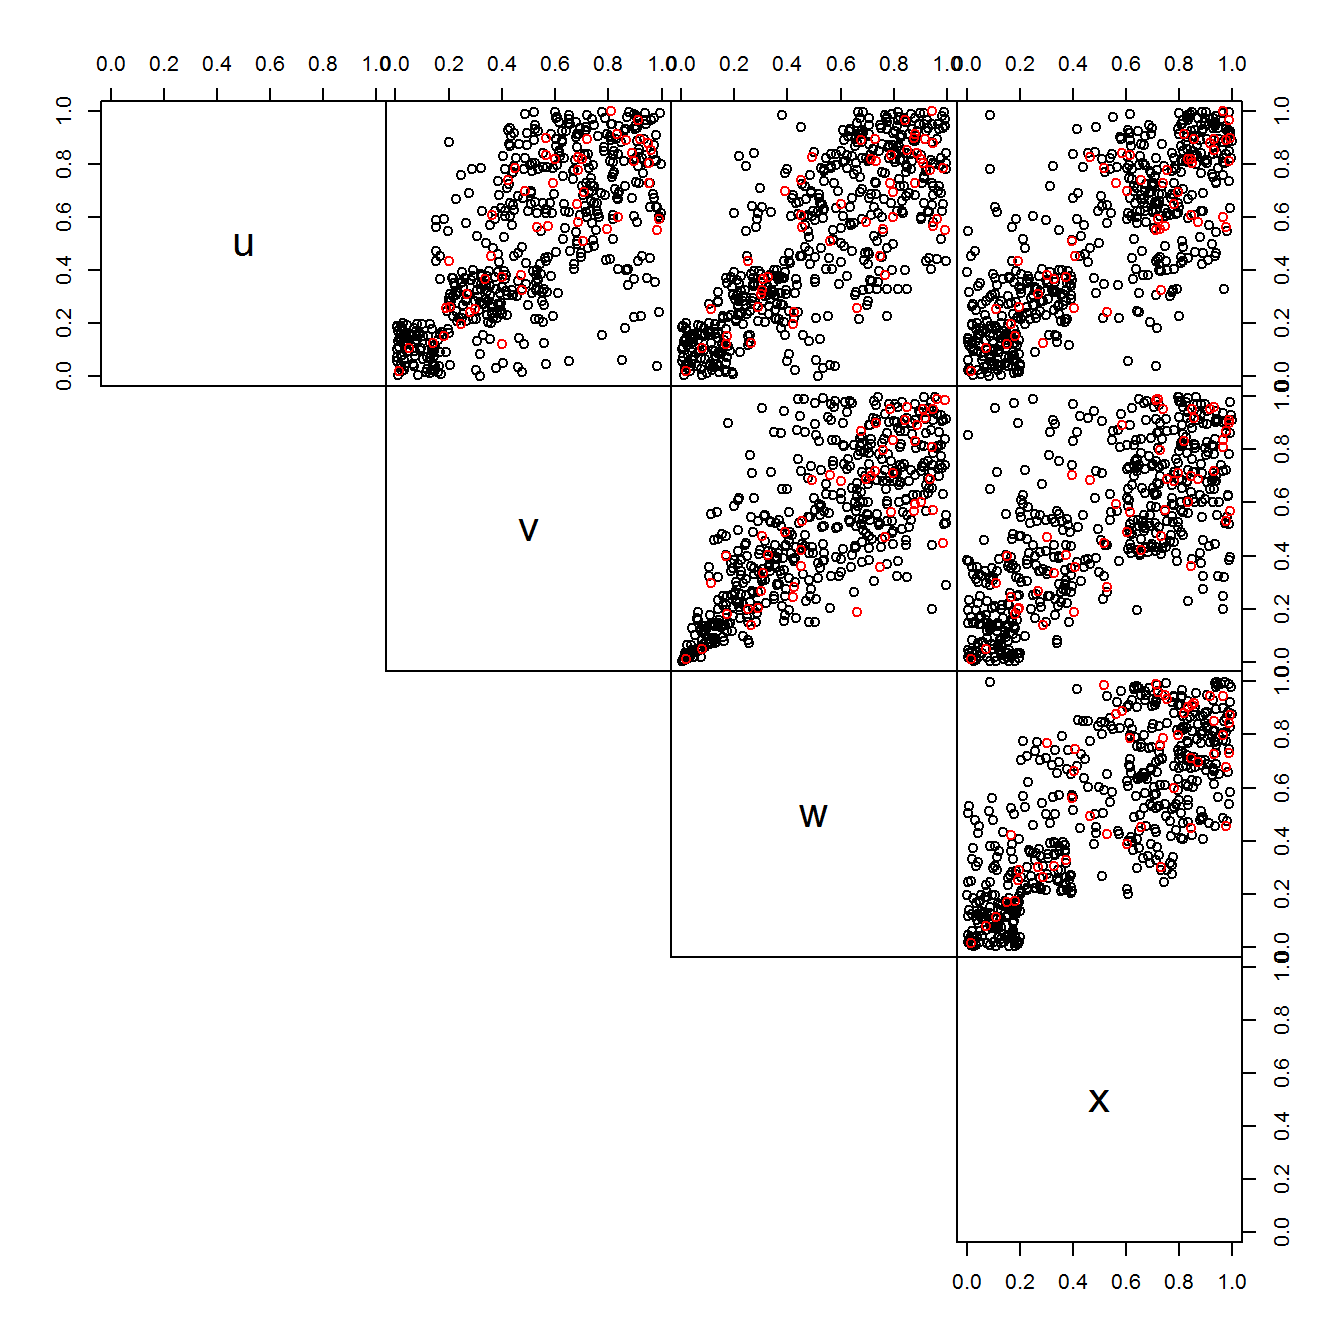
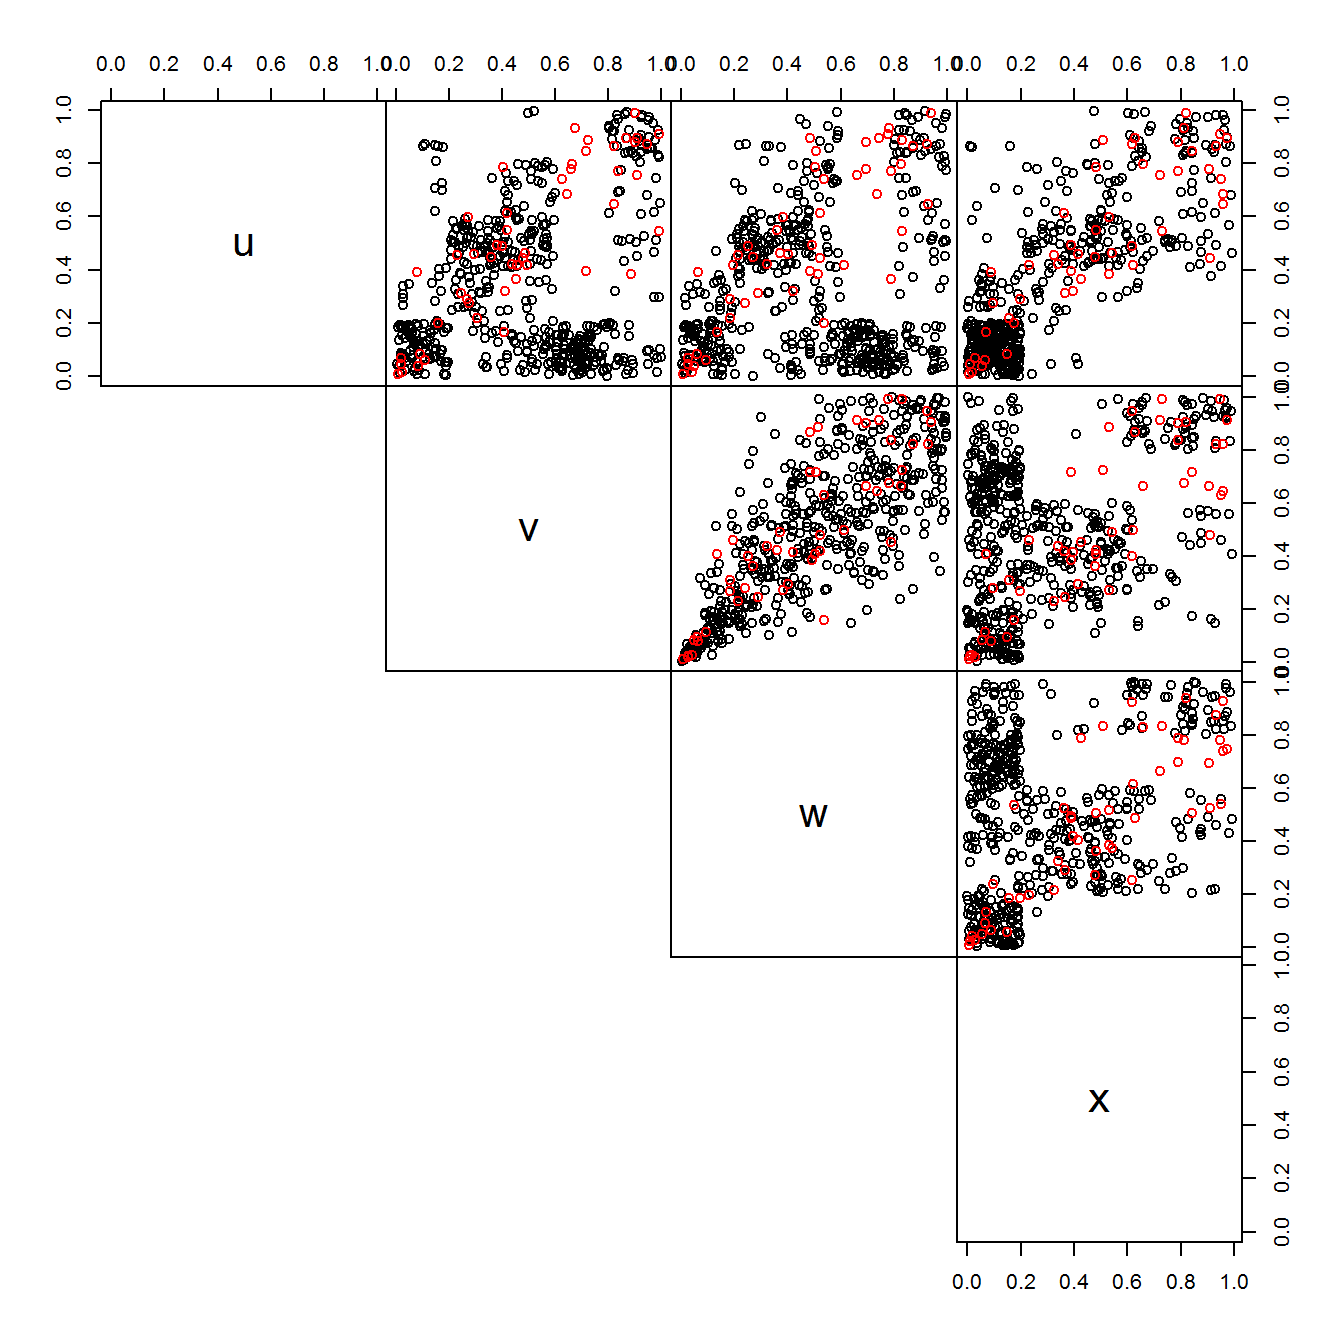
Rewriting of the rCopula for cbkmCopula class. Much faster and cleaner now.

diff --git a/docs/articles/ecbkm.html b/docs/articles/ecbkm.html
@@ -86,7 +86,7 @@
       <h1>Empirical Checkerboard Copula with known margins</h1>
                         <h4 class="author">Vignette Author</h4>
             
-            <h4 class="date">2019-02-08</h4>
+            <h4 class="date">2019-02-11</h4>
       
       <small class="dont-index">Source: <a href="https://github.com/lrnv/empCop/blob/master/vignettes/ecbkm.Rmd"><code>vignettes/ecbkm.Rmd</code></a></small>
       <div class="hidden name"><code>ecbkm.Rmd</code></div>
@@ -210,9 +210,7 @@ Pairs-plot of the simulated dataset
 <a class="sourceLine" id="cb3-14" data-line-number="14"><span class="co">#&gt;  and *no* child copulas</span></a></code></pre></div>
 <p>We can then simulate from it :</p>
 <div class="sourceCode" id="cb4"><pre class="sourceCode r"><code class="sourceCode r"><a class="sourceLine" id="cb4-1" data-line-number="1">  simu &lt;-<span class="st"> </span><span class="kw">rCopula</span>(<span class="dv">500</span>,cop)</a>
-<a class="sourceLine" id="cb4-2" data-line-number="2"><span class="co">#&gt; Warning: le package 'bindrcpp' a été compilé avec la version R 3.4.4</span></a>
-<a class="sourceLine" id="cb4-3" data-line-number="3"><span class="co">#&gt; Joining, by = c("v", "w")</span></a>
-<a class="sourceLine" id="cb4-4" data-line-number="4">  <span class="kw"><a href="https://www.rdocumentation.org/packages/graphics/topics/pairs">pairs</a></span>(<span class="kw"><a href="https://www.rdocumentation.org/packages/base/topics/cbind">rbind</a></span>(simu,dataset),<span class="dt">col=</span><span class="kw"><a href="https://www.rdocumentation.org/packages/base/topics/c">c</a></span>(<span class="kw"><a href="https://www.rdocumentation.org/packages/base/topics/rep">rep</a></span>(<span class="st">"black"</span>,<span class="kw"><a href="https://www.rdocumentation.org/packages/base/topics/nrow">nrow</a></span>(simu)),<span class="kw"><a href="https://www.rdocumentation.org/packages/base/topics/rep">rep</a></span>(<span class="st">"red"</span>,<span class="kw"><a href="https://www.rdocumentation.org/packages/base/topics/nrow">nrow</a></span>(dataset))),<span class="dt">gap=</span><span class="dv">0</span>,<span class="dt">lower.panel =</span> <span class="ot">NULL</span>)</a></code></pre></div>
+<a class="sourceLine" id="cb4-2" data-line-number="2">  <span class="kw"><a href="https://www.rdocumentation.org/packages/graphics/topics/pairs">pairs</a></span>(<span class="kw"><a href="https://www.rdocumentation.org/packages/base/topics/cbind">rbind</a></span>(simu,dataset),<span class="dt">col=</span><span class="kw"><a href="https://www.rdocumentation.org/packages/base/topics/c">c</a></span>(<span class="kw"><a href="https://www.rdocumentation.org/packages/base/topics/rep">rep</a></span>(<span class="st">"black"</span>,<span class="kw"><a href="https://www.rdocumentation.org/packages/base/topics/nrow">nrow</a></span>(simu)),<span class="kw"><a href="https://www.rdocumentation.org/packages/base/topics/rep">rep</a></span>(<span class="st">"red"</span>,<span class="kw"><a href="https://www.rdocumentation.org/packages/base/topics/nrow">nrow</a></span>(dataset))),<span class="dt">gap=</span><span class="dv">0</span>,<span class="dt">lower.panel =</span> <span class="ot">NULL</span>)</a></code></pre></div>
 <div class="figure">
 <img src="ecbkm_files/figure-html/unnamed-chunk-4-1.png" alt="Pairs-plot of the original data (red) and simulated data from the true model (black)" width="672"><p class="caption">
 Pairs-plot of the original data (red) and simulated data from the true model (black)
@@ -229,8 +227,7 @@ Pairs-plot of the original data (red) and simulated data from the true model (bl
 <a class="sourceLine" id="cb5-7" data-line-number="7"><span class="co">#&gt; Done !</span></a>
 <a class="sourceLine" id="cb5-8" data-line-number="8"></a>
 <a class="sourceLine" id="cb5-9" data-line-number="9">  simu &lt;-<span class="st"> </span><span class="kw">rCopula</span>(<span class="dv">500</span>,cop)</a>
-<a class="sourceLine" id="cb5-10" data-line-number="10"><span class="co">#&gt; Joining, by = c("v", "w")</span></a>
-<a class="sourceLine" id="cb5-11" data-line-number="11">  <span class="kw"><a href="https://www.rdocumentation.org/packages/graphics/topics/pairs">pairs</a></span>(<span class="kw"><a href="https://www.rdocumentation.org/packages/base/topics/cbind">rbind</a></span>(simu,dataset),<span class="dt">col=</span><span class="kw"><a href="https://www.rdocumentation.org/packages/base/topics/c">c</a></span>(<span class="kw"><a href="https://www.rdocumentation.org/packages/base/topics/rep">rep</a></span>(<span class="st">"black"</span>,<span class="kw"><a href="https://www.rdocumentation.org/packages/base/topics/nrow">nrow</a></span>(simu)),<span class="kw"><a href="https://www.rdocumentation.org/packages/base/topics/rep">rep</a></span>(<span class="st">"red"</span>,<span class="kw"><a href="https://www.rdocumentation.org/packages/base/topics/nrow">nrow</a></span>(dataset))),<span class="dt">gap=</span><span class="dv">0</span>,<span class="dt">lower.panel =</span> <span class="ot">NULL</span>)</a></code></pre></div>
+<a class="sourceLine" id="cb5-10" data-line-number="10">  <span class="kw"><a href="https://www.rdocumentation.org/packages/graphics/topics/pairs">pairs</a></span>(<span class="kw"><a href="https://www.rdocumentation.org/packages/base/topics/cbind">rbind</a></span>(simu,dataset),<span class="dt">col=</span><span class="kw"><a href="https://www.rdocumentation.org/packages/base/topics/c">c</a></span>(<span class="kw"><a href="https://www.rdocumentation.org/packages/base/topics/rep">rep</a></span>(<span class="st">"black"</span>,<span class="kw"><a href="https://www.rdocumentation.org/packages/base/topics/nrow">nrow</a></span>(simu)),<span class="kw"><a href="https://www.rdocumentation.org/packages/base/topics/rep">rep</a></span>(<span class="st">"red"</span>,<span class="kw"><a href="https://www.rdocumentation.org/packages/base/topics/nrow">nrow</a></span>(dataset))),<span class="dt">gap=</span><span class="dv">0</span>,<span class="dt">lower.panel =</span> <span class="ot">NULL</span>)</a></code></pre></div>
 <div class="figure">
 <img src="ecbkm_files/figure-html/unnamed-chunk-5-1.png" alt="Pairs-plot of the original data (red) and simulated data from a wrong model (black)" width="672"><p class="caption">
 Pairs-plot of the original data (red) and simulated data from a wrong model (black)
@@ -261,8 +258,7 @@ Pairs-plot of the original data with independance
 <a class="sourceLine" id="cb7-3" data-line-number="3"><span class="co">#&gt; Done !</span></a>
 <a class="sourceLine" id="cb7-4" data-line-number="4"></a>
 <a class="sourceLine" id="cb7-5" data-line-number="5">  simu &lt;-<span class="st"> </span><span class="kw">rCopula</span>(<span class="dv">500</span>,cop)</a>
-<a class="sourceLine" id="cb7-6" data-line-number="6"><span class="co">#&gt; Joining, by = c("v", "w")</span></a>
-<a class="sourceLine" id="cb7-7" data-line-number="7">  <span class="kw"><a href="https://www.rdocumentation.org/packages/graphics/topics/pairs">pairs</a></span>(<span class="kw"><a href="https://www.rdocumentation.org/packages/base/topics/cbind">rbind</a></span>(simu,dataset),<span class="dt">col=</span><span class="kw"><a href="https://www.rdocumentation.org/packages/base/topics/c">c</a></span>(<span class="kw"><a href="https://www.rdocumentation.org/packages/base/topics/rep">rep</a></span>(<span class="st">"black"</span>,<span class="kw"><a href="https://www.rdocumentation.org/packages/base/topics/nrow">nrow</a></span>(simu)),<span class="kw"><a href="https://www.rdocumentation.org/packages/base/topics/rep">rep</a></span>(<span class="st">"red"</span>,<span class="kw"><a href="https://www.rdocumentation.org/packages/base/topics/nrow">nrow</a></span>(dataset))),<span class="dt">gap=</span><span class="dv">0</span>,<span class="dt">lower.panel =</span> <span class="ot">NULL</span>)</a></code></pre></div>
+<a class="sourceLine" id="cb7-6" data-line-number="6">  <span class="kw"><a href="https://www.rdocumentation.org/packages/graphics/topics/pairs">pairs</a></span>(<span class="kw"><a href="https://www.rdocumentation.org/packages/base/topics/cbind">rbind</a></span>(simu,dataset),<span class="dt">col=</span><span class="kw"><a href="https://www.rdocumentation.org/packages/base/topics/c">c</a></span>(<span class="kw"><a href="https://www.rdocumentation.org/packages/base/topics/rep">rep</a></span>(<span class="st">"black"</span>,<span class="kw"><a href="https://www.rdocumentation.org/packages/base/topics/nrow">nrow</a></span>(simu)),<span class="kw"><a href="https://www.rdocumentation.org/packages/base/topics/rep">rep</a></span>(<span class="st">"red"</span>,<span class="kw"><a href="https://www.rdocumentation.org/packages/base/topics/nrow">nrow</a></span>(dataset))),<span class="dt">gap=</span><span class="dv">0</span>,<span class="dt">lower.panel =</span> <span class="ot">NULL</span>)</a></code></pre></div>
 <div class="figure">
 <img src="ecbkm_files/figure-html/unnamed-chunk-7-1.png" alt="Pairs-plot of the original data (red) and simulated data from a wrong model (black) -- Independance case" width="672"><p class="caption">
 Pairs-plot of the original data (red) and simulated data from a wrong model (black) – Independance case

diff --git a/docs/articles/convexcombcopula.html b/docs/articles/convexcombcopula.html
@@ -86,7 +86,7 @@
       <h1>Convex combination of copulas</h1>
                         <h4 class="author">Vignette Author</h4>
             
-            <h4 class="date">2019-02-08</h4>
+            <h4 class="date">2019-02-11</h4>
       
       <small class="dont-index">Source: <a href="https://github.com/lrnv/empCop/blob/master/vignettes/convexcombcopula.Rmd"><code>vignettes/convexcombcopula.Rmd</code></a></small>
       <div class="hidden name"><code>convexcombcopula.Rmd</code></div>

diff --git a/docs/articles/ecb.html b/docs/articles/ecb.html
@@ -86,7 +86,7 @@
       <h1>Empirical Checkerboard Copula</h1>
                         <h4 class="author">Oskar Laverny</h4>
             
-            <h4 class="date">2019-02-08</h4>
+            <h4 class="date">2019-02-11</h4>
       
       <small class="dont-index">Source: <a href="https://github.com/lrnv/empCop/blob/master/vignettes/ecb.Rmd"><code>vignettes/ecb.Rmd</code></a></small>
       <div class="hidden name"><code>ecb.Rmd</code></div>
